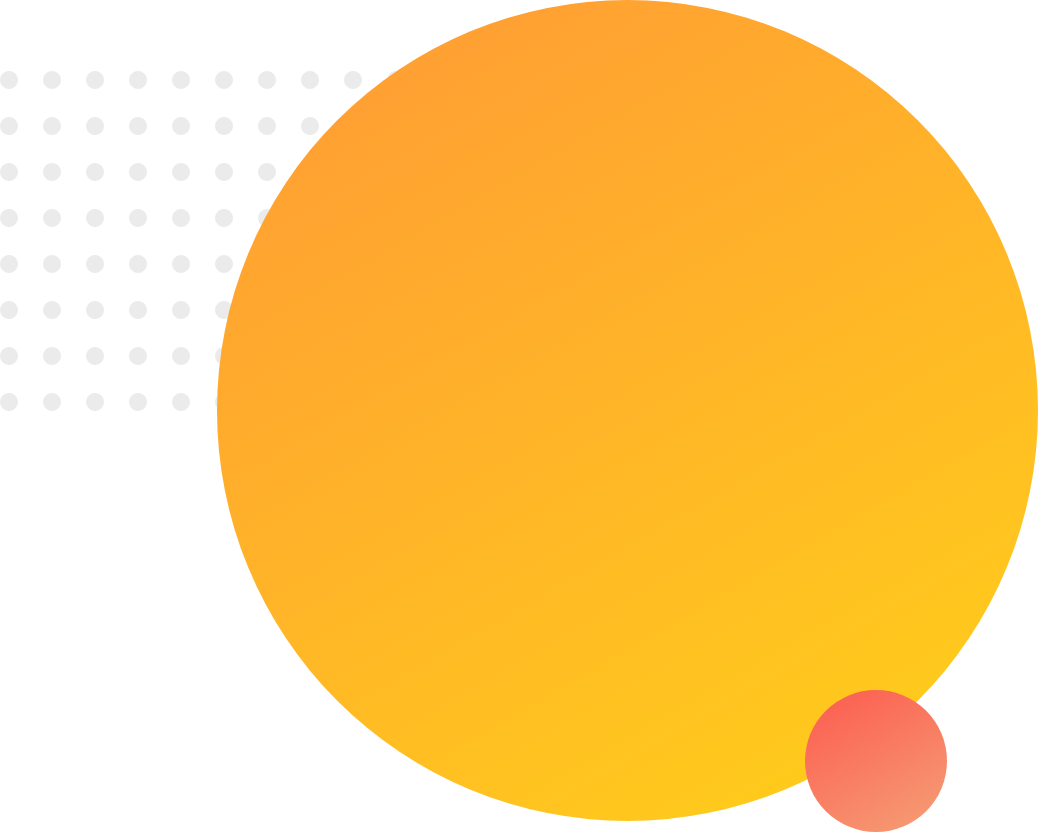
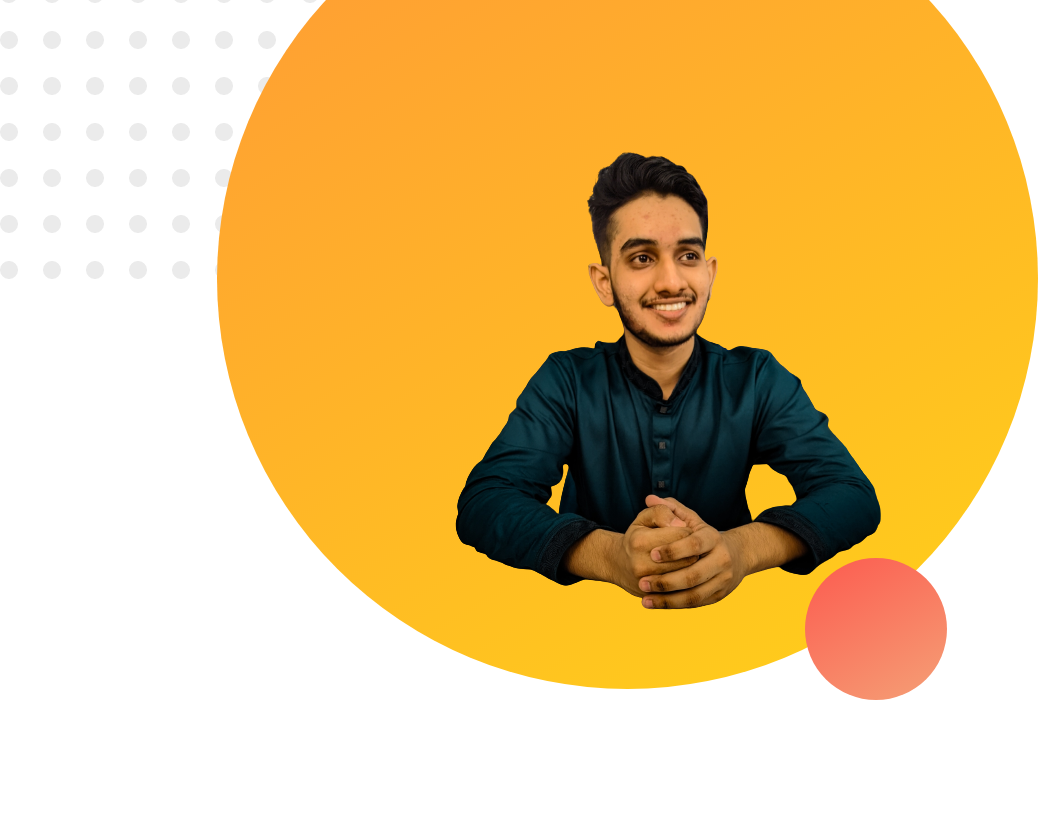
add the top part

diff --git a/index.html b/index.html
@@ -1,0 +1,24 @@
+<!DOCTYPE html>
+<html lang="en">
+<head>
+    <meta charset="UTF-8">
+    <meta http-equiv="X-UA-Compatible" content="IE=edge">
+    <meta name="viewport" content="width=device-width, initial-scale=1.0">
+    <title>Mahidul Profolio</title>
+    <link rel="stylesheet"href="https://fonts.googleapis.com/css?family=Poppins">
+    <link rel="stylesheet" href="style.css">
+</head>
+<body>
+    <section>
+        <div class="half-width">
+            <h1>Welcome To</h1>
+            <h1><span class="name-highlight">Mahidul</span> Website</h1>
+            <h3>World-Class Blockchain Engineer</h3>
+            <p>Learning <b>Cyber Security</b> then work little bit and jump into <b>software development</b> still learning now start <b> full stack web developmet</b> and doint <b>cs50 course</b> try <b>solana blockchain </b> start a new programming language rust.</p>
+        </div>
+        <div class="half-width">
+            <img src="image/image 4.png" alt="">
+        </div>
+    </section>
+</body>
+</html>

diff --git a/style.css b/style.css
@@ -1,0 +1,19 @@
+body {
+    font-family: 'Poppins', serif;
+    font-size: 20gpx;
+  }
+h1{
+    font-size: 40px;
+}
+.name-highlight{
+    color: orange;
+}
+.half-width{
+    width: 40%;
+    float: left;
+    margin-left: 5%;
+    padding-left: 5%;
+}
+.half-width img{
+    width: 80%;
+}
